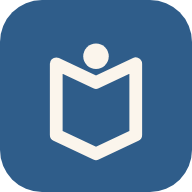
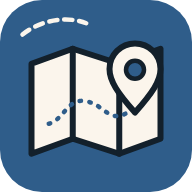
旅伴 v2: 統一飛省/飯省風格（header/導覽/按鈕/卡片/sheet/footer/深色）、新圖標、SW tripmate-v2

diff --git a/index.html b/index.html
@@ -1,31 +1,59 @@
 <!doctype html><html lang="zh-TW"><head><meta charset="utf-8"><meta name="viewport" content="width=device-width,initial-scale=1,viewport-fit=cover">
-<title>旅伴｜行程規劃</title><link rel="manifest" href="manifest.json"><link rel="icon" href="icons/icon.svg"><meta name="theme-color" content="#2F5D8A">
+<title>旅伴｜行程規劃</title><link rel="manifest" href="manifest.json"><link rel="icon" href="icons/icon.svg"><link rel="apple-touch-icon" href="icons/apple-touch-icon.png"><meta name="theme-color" content="#F4F8FC">
 <style>
-:root{--p:#2F5D8A;--pl:#5B8DBF;--pll:#A9C8E6;--bg:#FBF5EC;--card:#fff;--tx:#2B2A27;--mut:#7A746A;--bd:#E9E1D3;--fly:#388153;--fan:#C2410C}
-[data-theme=dark]{--bg:#10151C;--card:#1A2330;--tx:#F1EBDD;--mut:#A39D90;--bd:#2A3646;--p:#5B8DBF}
-*{box-sizing:border-box}body{margin:0;font-family:-apple-system,"PingFang TC","Noto Sans TC","Microsoft JhengHei",sans-serif;background:var(--bg);color:var(--tx);padding:64px 0 84px}
-header{position:fixed;top:0;left:0;right:0;height:56px;display:flex;align-items:center;gap:10px;padding:0 12px;background:var(--bg);border-bottom:1px solid var(--bd);z-index:5}
-header .t{flex:1;display:flex;align-items:center;gap:8px}header b{font-size:18px}#tag{font-size:12px;color:var(--mut);transition:opacity .4s}
-.ib{background:none;border:0;font-size:20px;cursor:pointer;position:relative;color:var(--tx)}.dot{position:absolute;top:2px;right:2px;width:8px;height:8px;background:#E0483E;border-radius:50%}
-nav{position:fixed;bottom:0;left:0;right:0;display:flex;background:var(--card);border-top:1px solid var(--bd);padding-bottom:env(safe-area-inset-bottom);z-index:5}
-nav button{flex:1;border:0;background:none;padding:8px 0;font-size:11px;color:var(--mut);display:flex;flex-direction:column;align-items:center;gap:3px;cursor:pointer}
-nav button.on{color:var(--p);font-weight:700}.ico{width:26px;height:26px;border-radius:8px;background:var(--mut);color:#FBF5EC;display:grid;place-items:center;font-size:14px}nav .on .ico{background:var(--p)}
-main{max-width:720px;margin:auto;padding:0 14px}.card{background:var(--card);border:1px solid var(--bd);border-radius:16px;padding:14px;margin:10px 0}
-h2{font-size:18px;margin:12px 4px}.mut{color:var(--mut);font-size:13px}label{display:block;font-size:13px;margin:10px 0 4px;color:var(--mut)}
-input,textarea,select{width:100%;padding:10px;border-radius:10px;border:1px solid var(--bd);background:var(--bg);color:var(--tx);font:inherit}
-.btn{white-space:nowrap;text-align:center;text-decoration:none;flex:0 0 auto;border:0;border-radius:12px;padding:10px 14px;font:inherit;font-weight:600;cursor:pointer;background:var(--p);color:#FBF5EC}.btn.s{background:none;color:var(--p);border:1px solid var(--p)}
-.btn.fly{background:var(--fly)}.btn.fan{background:var(--fan)}.row{display:flex;gap:8px;flex-wrap:wrap;align-items:center}.row>*{flex:1}.row>.btn{flex:1}
-.spot{display:flex;gap:8px;align-items:flex-start;border-top:1px dashed var(--bd);padding:8px 0}.spot .tm{font-weight:700;color:var(--p);min-width:48px}.spot .x{flex:1}
-.mini{border:0;background:none;cursor:pointer;color:var(--mut);font-size:16px;padding:2px}.deal{display:flex;justify-content:space-between;align-items:center}.price{color:var(--fly);font-weight:800;font-size:18px}
-footer{text-align:center;font-size:12px;color:var(--mut);margin:24px 0}footer a{color:var(--mut)}
-.sheet{position:fixed;inset:0;background:#0007;display:none;align-items:flex-end;z-index:9}.sheet.on{display:flex}.sheet>div{background:var(--card);width:100%;max-width:720px;margin:auto auto 0;border-radius:20px 20px 0 0;padding:18px}
-@media print{header,nav,footer,.noprint{display:none!important}body{padding:0;background:#fff;color:#000}.card{border:1px solid #ccc}}
+:root{--g:#2F5D8A;--lg:#DCE8F4;--acc:#2F5D8A;--hd:#F4F8FC;--hdtx:#16283A;--line:#D5E0EB;--tint:#DCE8F4;--tintfg:#1F4468;--bg:#FBF5EC;--card:#FFFDF9;--tx:#111;--mut:#7A6E62;--bd:#E7D8C6;--fly:#388153;--fan:#C2410C}
+html.dark{color-scheme:dark;--g:#3B6A99;--lg:#1E3247;--acc:#8DB6E0;--hd:#18212C;--hdtx:#EAF0F6;--line:#2A3846;--tint:#22344A;--tintfg:#8DB6E0;--bg:#11161D;--card:#1C2530;--tx:#EEF2F6;--mut:#A3AFBC;--bd:#334355;--fly:#2F6E47;--fan:#A93A0B}
+*{box-sizing:border-box;-webkit-tap-highlight-color:transparent}
+body{margin:0;font-family:-apple-system,"PingFang TC","Noto Sans TC","Microsoft JhengHei",sans-serif;background:var(--bg);color:var(--tx);padding-bottom:calc(70px + env(safe-area-inset-bottom))}
+header{background:var(--hd);color:var(--hdtx);border-bottom:1px solid var(--line);padding:calc(12px + env(safe-area-inset-top)) 12px 10px;display:flex;align-items:center;gap:6px;position:sticky;top:0;z-index:5}
+header img#logo{width:40px;height:40px;border-radius:11px;box-shadow:0 2px 6px rgba(20,45,75,.25)}
+header h1{flex:1 1 auto;min-width:0;font-size:19px;margin:0;font-weight:800;overflow:hidden}
+header small{display:block;font-size:11px;font-weight:400;color:#4E6A86;white-space:nowrap;overflow:hidden;text-overflow:ellipsis;transition:opacity .4s}
+html.dark header small{color:#9DB6CF}
+#annbell{position:relative;width:40px;height:40px;margin:-6px 0 -6px -4px;border:0;background:var(--tint);border-radius:12px;display:flex;align-items:center;justify-content:center;flex:none;cursor:pointer}
+#nfybell{position:relative;width:44px;height:44px;margin:-6px -4px -6px 0;border:0;background:var(--tint);border-radius:12px;display:flex;align-items:center;justify-content:center;flex:none;cursor:pointer}
+#thbtn{width:44px;height:44px;border:0;background:none;border-radius:12px;display:flex;align-items:center;justify-content:center;cursor:pointer}
+header button svg{width:22px;height:22px;fill:none;stroke:var(--tintfg);stroke-width:1.9;stroke-linecap:round;stroke-linejoin:round}
+header button b{position:absolute;top:4px;right:4px;background:#E53935;color:#fff;font-size:11px;border-radius:9px;padding:0 5px;line-height:16px}header button b:empty{display:none}
+nav{position:fixed;bottom:0;left:0;right:0;display:flex;background:#FFFDF9f2;-webkit-backdrop-filter:blur(10px);backdrop-filter:blur(10px);border-top:1px solid #e3e8ee;padding:4px env(safe-area-inset-right) calc(4px + env(safe-area-inset-bottom)) env(safe-area-inset-left);z-index:5}
+nav button{flex:1 1 0;min-width:0;min-height:52px;border:0;background:none;padding:4px 0 2px;font-size:10.5px;color:#8a949e;display:flex;flex-direction:column;align-items:center;justify-content:center;gap:2px;cursor:pointer;font-family:inherit}
+nav button svg{width:23px;height:23px;fill:none;stroke:currentColor;stroke-width:1.8;stroke-linecap:round;stroke-linejoin:round;transition:transform .25s cubic-bezier(.3,1.6,.5,1)}
+nav button.on{color:var(--g);font-weight:700}nav button.on svg{transform:translateY(-1px) scale(1.08)}
+html.dark nav{background:#161E27f2;border-top-color:#2A3846}html.dark nav button{color:#A3AFBC}html.dark nav button.on{color:#8DB6E0}
+main{padding:12px;max-width:520px;margin:0 auto}
+.card{background:var(--card);border-radius:16px;padding:14px;margin-bottom:12px;box-shadow:0 1px 3px rgba(0,0,0,.08)}
+html.dark .card{box-shadow:none;border:1px solid var(--line)}
+h2{font-size:18px;margin:4px 2px 10px}.mut{color:var(--mut);font-size:13px}
+.fld{display:block;font-size:13px;color:var(--mut);margin:0 0 10px}
+.fld input,.fld textarea,.fld select{display:block;width:100%;margin-top:4px;min-height:48px;padding:10px 12px;border:1.5px solid var(--bd);border-radius:12px;font-size:16px;font-family:inherit;background:#fff;color:#1A2430}
+html.dark .fld input,html.dark .fld textarea,html.dark .fld select{background:#151C24;color:var(--tx)}
+.btn{display:inline-flex;align-items:center;justify-content:center;gap:6px;min-height:48px;border:0;background:var(--g);color:#fff;font-size:16px;font-weight:800;border-radius:24px;padding:12px 18px;font-family:inherit;text-decoration:none;cursor:pointer;white-space:nowrap;transition:filter .15s}
+.btn:active{filter:brightness(.92)}.btn:disabled{background:#B9CBDD;cursor:default}html.dark .btn:disabled{background:#2C3B4B;color:#7D8C9B}
+.btn.ghost{background:transparent;color:var(--acc);border:2px solid var(--g)}html.dark .btn.ghost{border-color:var(--acc)}
+.btn.fly{background:var(--fly)}.btn.fan{background:var(--fan)}.btn.sm{min-height:36px;padding:6px 12px;font-size:14px}.btn.blk{display:flex;width:100%}
+.btn.press{animation:bounce .35s cubic-bezier(.3,1.6,.5,1)}@keyframes bounce{0%{transform:scale(1)}40%{transform:scale(.94)}100%{transform:scale(1)}}
+.chip{border:1.5px solid var(--g);color:var(--acc);background:var(--card);border-radius:20px;padding:5px 11px;font-size:13px;font-weight:700;font-family:inherit;cursor:pointer}
+.dd{border:1.5px solid #B9CBDD;background:var(--card);color:#1F4468;border-radius:999px;padding:7px 14px;font-size:14px;font-weight:700;cursor:pointer;font-family:inherit}.dd span{font-size:11px;opacity:.7}
+html.dark .dd{border-color:#334355;color:#B7CEE6}
+.ib{width:36px;height:36px;border:0;border-radius:10px;background:var(--tint);display:inline-flex;align-items:center;justify-content:center;cursor:pointer}.ib svg{width:18px;height:18px;fill:none;stroke:var(--tintfg);stroke-width:1.9;stroke-linecap:round;stroke-linejoin:round}
+.row{display:flex;gap:8px;flex-wrap:wrap;align-items:center}.row>*{flex:1}.row>.btn{flex:1}
+.spot{display:flex;gap:10px;align-items:center;border-top:1px dashed var(--bd);padding:10px 0}.spot img{width:32px;height:32px}.spot .tm{font-weight:800;color:var(--acc);min-width:46px}.spot .x{flex:1;min-width:0}.spot .ops{display:flex;gap:4px}
+.dh{display:flex;align-items:center;justify-content:space-between;gap:8px}
+.deal{display:flex;justify-content:space-between;align-items:center;gap:8px}.price{color:var(--fly);font-weight:800;font-size:20px;text-decoration:none}html.dark .price{color:#8FD3A8}
+.ui{width:28px;height:28px;vertical-align:middle;margin-right:6px}
+footer{text-align:center;font-size:12px;color:#777;line-height:1.9;padding:10px 0 4px}footer a{color:var(--acc);text-decoration:none;font-weight:700;cursor:pointer}footer .copy{color:#aaa;font-size:11px}
+html.dark footer{color:#A3AFBC}
+.shbg{position:fixed;inset:0;background:rgba(10,20,30,.45);z-index:20;opacity:0;pointer-events:none;transition:opacity .25s}.shbg.on{opacity:1;pointer-events:auto}
+.sheet{position:fixed;left:0;right:0;bottom:0;max-height:88vh;overflow:auto;background:#FFFDF9;border-radius:20px 20px 0 0;z-index:21;padding:8px 16px calc(18px + env(safe-area-inset-bottom));transform:translateY(100%);transition:transform .3s cubic-bezier(.2,.9,.3,1);max-width:560px;margin:0 auto}
+.sheet.on{transform:none}.sheet .grab{width:40px;height:5px;border-radius:3px;background:#D3DEE9;margin:4px auto 12px}.sheet h2{margin:0 0 8px}
+html.dark .sheet{background:#18212C;color:var(--tx)}html.dark .sheet .grab{background:#334355}
+.toast{position:fixed;bottom:96px;left:50%;transform:translateX(-50%);background:#333;color:#fff;padding:8px 14px;border-radius:20px;z-index:30;font-size:13px}
+@media print{header,nav,footer,.noprint{display:none!important}body{padding:0;background:#fff;color:#000}.card{box-shadow:none;border:1px solid #ccc}}
 </style></head><body>
-<header><button class="ib" id="ann" title="公告">📢<span class="dot" id="annDot"></span></button><div class="t"><img src="icons/icon.svg" width="28"><div><b>旅伴</b><div id="tag">排好行程，機票飯店一起省</div></div></div>
-<button class="ib" id="theme" title="深色模式">🌙</button><button class="ib" id="bell" title="通知">🔔</button></header>
+<header><button id="annbell" aria-label="公告"><svg viewBox="0 0 24 24"><path d="M3 10v4h3l7 4V6L6 10z"/><path d="M16 9a4 4 0 0 1 0 6M18.5 6.5a8 8 0 0 1 0 11"/></svg><b id="annn">1</b></button><img id="logo" src="icons/icon-192.png" alt="旅伴"><h1>旅伴 TripMate<small id="tag">排好行程，機票飯店一起省</small></h1><button id="thbtn" aria-label="切換深色模式"></button><button id="nfybell" aria-label="通知"><svg viewBox="0 0 24 24"><path d="M6 16V11a6 6 0 0 1 12 0v5l2 2H4z"/><path d="M10 20a2 2 0 0 0 4 0"/></svg><b></b></button></header>
 <main id="app"></main>
 <nav id="nav"></nav>
-<div class="sheet" id="sheet"><div id="sheetBody"></div></div>
+<div class="shbg" id="shbg"></div><div class="sheet" id="sheet"><div class="grab"></div><div id="sheetBody"></div></div>
 <script>
 const P='trip_',$=s=>document.querySelector(s),esc=s=>String(s??'').replace(/[&<>"]/g,c=>({'&':'&amp;','<':'&lt;','>':'&gt;','"':'&quot;'}[c]));
 const ls={get:(k,d)=>{try{return JSON.parse(localStorage.getItem(P+k))??d}catch{return d}},set:(k,v)=>localStorage.setItem(P+k,JSON.stringify(v))};
@@ -37,42 +65,47 @@ const days=t=>{const n=Math.max(1,Math.round((new Date(t.ret)-new Date(t.dep))/8
 const dayDate=(t,i)=>{const d=new Date(t.dep);d.setDate(d.getDate()+i);return `${d.getMonth()+1}/${d.getDate()}（${'日一二三四五六'[d.getDay()]}）`};
 const flyUrl=t=>`${BASE}flysave/?to=${encodeURIComponent(code(t.dest))}&dep=${t.dep}&ret=${t.ret}&pax=${t.pax}&orig=${t.orig||'TPE'}&from=trip`;
 const fanUrl=t=>`${BASE}fansave/?city=${encodeURIComponent(code(t.dest))}&in=${t.dep}&out=${t.ret}&guests=${Math.min(8,t.pax)}&from=trip`;
-const TABS=[['list','我的行程','🧳'],['new','新增行程','＋'],['edit','行程編輯','✎'],['deals','優惠','％'],['more','其他','⋯']];
+const TI={list:'<rect x="4" y="7" width="16" height="13" rx="2.5"/><path d="M9 7V5a1 1 0 0 1 1-1h4a1 1 0 0 1 1 1v2M4 12h16M10 12v2h4v-2"/>',new:'<rect x="4" y="4" width="16" height="16" rx="4"/><path d="M12 8.5v7M8.5 12h7"/>',edit:'<path d="M4 6l5-2 6 2 5-2v14l-5 2-6-2-5 2z"/><path d="M9 4v14M15 6v14"/>',deals:'<path d="M3 12V5a2 2 0 0 1 2-2h7l9 9-9 9z"/><circle cx="8" cy="8" r="1.5"/><path d="M10.5 16.5l5-5"/>',more:'<circle cx="5" cy="12" r="1.5"/><circle cx="12" cy="12" r="1.5"/><circle cx="19" cy="12" r="1.5"/>'};
+const IB={up:'<path d="M6 15l6-6 6 6"/>',dn:'<path d="M6 9l6 6 6-6"/>',ed:'<path d="M4 20h4L19 9l-4-4L4 16z"/>',x:'<path d="M6 6l12 12M18 6L6 18"/>',del:'<path d="M5 7h14M10 7V4h4v3M7 7l1 13h8l1-13"/>'};
+const ib=(k,on,t)=>`<button class="ib" aria-label="${t}" onclick="${on}"><svg viewBox="0 0 24 24">${IB[k]}</svg></button>`,ui=(n)=>`<img class="ui" src="icons/ui-${n}.svg" alt="">`;
+const TABS=[['list','我的行程'],['new','新增行程'],['edit','行程編輯'],['deals','優惠'],['more','其他']];
 function go(t){tab=t;history.pushState({tab:t},'');render()}
-function render(){$('#nav').innerHTML=TABS.map(([k,n,i])=>`<button class="${k===tab?'on':''}" onclick="go('${k}')"><span class="ico">${i}</span>${n}</button>`).join('');$('#app').innerHTML=V[tab]()+foot();if(tab==='deals'||tab==='edit')loadDeals()}
-const foot=()=>`<footer>贊助 · <a href="#" onclick="share();return false">分享</a> · 關於 | 隱私 | 條款<br><a href="${BASE}flysave/?from=trip">✈ 飛省</a> · <a href="${BASE}fansave/?from=trip">🏨 飯省</a></footer>`;
+function render(){$('#nav').innerHTML=TABS.map(([k,n])=>`<button class="${k===tab?'on':''}" onclick="go('${k}')"><svg viewBox="0 0 24 24">${TI[k]}</svg>${n}</button>`).join('');$('#app').innerHTML=V[tab]()+foot();if(tab==='deals'||tab==='edit')loadDeals()}
+const foot=()=>`<footer><a onclick="toast('感謝支持 ☕')">☕ 贊助旅伴</a> · <a onclick="share()">🔗 分享網頁</a><br><a onclick="go('more')">關於我們</a> | <a onclick="go('more')">隱私權政策</a> | <a onclick="go('more')">服務條款</a><br><a href="${BASE}flysave/?from=trip">✈ 飛省 查機票</a> | <a href="${BASE}fansave/?from=trip">🏨 飯省 找飯店</a><div class="copy">© 2026 旅伴 TripMate · v2.0</div></footer>`;
 const V={
-list:()=>`<h2>我的行程</h2>`+(trips.length?trips.map(t=>`<div class="card" onclick="cur='${t.id}';save();go('edit')" style="cursor:pointer"><div class="row"><div><b>${esc(t.dest)}</b> <span class="mut">${t.dep} → ${t.ret} · ${t.pax} 人</span></div><button class="mini" style="flex:0" onclick="event.stopPropagation();delTrip('${t.id}')">🗑</button></div><div class="mut">${t.days.flat().length} 個景點</div></div>`).join(''):`<div class="card mut">還沒有行程，點「新增行程」開始吧！</div>`),
-new:()=>{const d=new Date(Date.now()+14*864e5).toISOString().slice(0,10),r=new Date(Date.now()+18*864e5).toISOString().slice(0,10);return `<h2>新增行程</h2><div class="card"><label>目的地（城市或機場代碼）</label><input id="nd" list="cities" placeholder="例：東京"><datalist id="cities">${Object.keys(CITY).map(c=>`<option>${c}`).join('')}</datalist>
-<div class="row"><div><label>出發</label><input type="date" id="ndep" value="${d}"></div><div><label>回程</label><input type="date" id="nret" value="${r}"></div></div>
-<div class="row"><div><label>人數</label><input type="number" id="npax" min="1" max="9" value="2"></div><div><label>出發機場</label><select id="norig"><option>TPE</option><option>KHH</option></select></div></div><br><button class="btn" style="width:100%" onclick="addTrip()">建立行程</button></div>`},
+list:()=>`<h2>我的行程</h2>`+(trips.length?trips.map(t=>`<div class="card" onclick="cur='${t.id}';save();go('edit')" style="cursor:pointer"><div class="row"><div>${ui('spot')}<b>${esc(t.dest)}</b> <span class="mut">${t.dep} → ${t.ret} · ${t.pax} 人</span></div><span style="flex:0" onclick="event.stopPropagation()">${ib('del',`delTrip('${t.id}')`,'刪除')}</span></div><div class="mut">${t.days.flat().length} 個景點</div></div>`).join(''):`<div class="card mut">還沒有行程，點「新增行程」開始吧！</div>`),
+new:()=>{const d=new Date(Date.now()+14*864e5).toISOString().slice(0,10),r=new Date(Date.now()+18*864e5).toISOString().slice(0,10);return `<h2>新增行程</h2><div class="card"><label class="fld">目的地（城市或機場代碼）<input id="nd" list="cities" placeholder="例：東京"></label><datalist id="cities">${Object.keys(CITY).map(c=>`<option>${c}`).join('')}</datalist>
+<div class="row"><div><label class="fld">出發<input type="date" id="ndep" value="${d}"></label></div><div><label class="fld">回程<input type="date" id="nret" value="${r}"></label></div></div>
+<div class="row"><div><label class="fld">人數<input type="number" id="npax" min="1" max="9" value="2"></div><div><label class="fld">出發機場<select id="norig"><option>TPE</option><option>KHH</option></select></label></div></div><br><button class="btn blk" onclick="addTrip()">建立行程</button></div>`},
 edit:()=>{const t=T();if(!t)return `<h2>行程編輯</h2><div class="card mut">請先建立或選擇一個行程。</div>`;const n=days(t);return `<h2>${esc(t.dest)} ${n} 天 <span class="mut">${t.dep} → ${t.ret} · ${t.pax} 人</span></h2>
 <div class="row noprint"><a class="btn fly" href="${flyUrl(t)}" target="_blank">✈ 飛省查機票</a><a class="btn fan" href="${fanUrl(t)}" target="_blank">🏨 飯省找飯店</a></div>
-<div class="row noprint" style="margin-top:8px"><button class="btn s" onclick="print()">🖨 列印</button><button class="btn s" onclick="share()">🔗 分享</button></div>
-<div id="tdeals"></div>`+t.days.map((d,i)=>`<div class="card"><div class="row"><b>Day ${i+1} · ${dayDate(t,i)}</b><button class="btn s noprint" style="flex:0;padding:4px 10px" onclick="spot(${i})">＋景點</button></div>`+(d.length?d.map((s,j)=>`<div class="spot"><span class="tm">${esc(s.time)||'—'}</span><div class="x"><b>${esc(s.name)}</b>${s.note?`<div class="mut">${esc(s.note)}</div>`:''}</div><span class="noprint"><button class="mini" onclick="mv(${i},${j},-1)">▲</button><button class="mini" onclick="mv(${i},${j},1)">▼</button><button class="mini" onclick="spot(${i},${j})">✎</button><button class="mini" onclick="rm(${i},${j})">✕</button></span></div>`).join(''):`<div class="mut">尚未安排</div>`)+`</div>`).join('')},
+<div class="row noprint" style="margin-top:8px"><button class="btn ghost" onclick="print()">列印行程</button><button class="btn ghost" onclick="share()">分享行程</button></div>
+<div id="tdeals"></div>`+t.days.map((d,i)=>`<div class="card"><div class="dh"><b>Day ${i+1} · ${dayDate(t,i)}</b><button class="btn s noprint" style="flex:0;padding:4px 10px" onclick="spot(${i})">＋景點</button></div>`+(d.length?d.map((s,j)=>`<div class="spot"><img src="icons/ui-spot.svg" alt=""><span class="tm">${esc(s.time)||'—'}</span><div class="x"><b>${esc(s.name)}</b>${s.note?`<div class="mut">${esc(s.note)}</div>`:''}</div><span class="ops noprint">${ib('up',`mv(${i},${j},-1)`,'上移')}${ib('dn',`mv(${i},${j},1)`,'下移')}${ib('ed',`spot(${i},${j})`,'編輯')}${ib('x',`rm(${i},${j})`,'刪除')}</span></div>`).join(''):`<div class="mut">尚未安排</div>`)+`</div>`).join('')},
 deals:()=>`<h2>最新機票優惠 <span class="mut">來自飛省</span></h2><div id="dl" class="mut">載入中…</div>`,
-more:()=>`<h2>其他</h2><div class="card"><b>關於旅伴</b><p class="mut">旅伴幫你排每日行程，並一鍵帶參數到飛省查機票、飯省找住宿。資料只存在你的裝置。</p></div><div class="card"><button class="btn s" onclick="exp()">匯出行程 JSON</button></div>`};
+more:()=>`<h2>其他</h2><div class="card"><b>關於旅伴</b><p class="mut">旅伴幫你排每日行程，並一鍵帶參數到飛省查機票、飯省找住宿。資料只存在你的裝置。</p></div><div class="card"><button class="btn ghost" onclick="exp()">匯出行程 JSON</button></div>`};
 function addTrip(){const dest=$('#nd').value.trim(),dep=$('#ndep').value,ret=$('#nret').value;if(!dest||!dep||!ret||ret<dep)return alert('請填寫目的地與正確日期');const t={id:Date.now().toString(36),dest,dep,ret,pax:+$('#npax').value||2,orig:$('#norig').value,days:[]};days(t);trips.unshift(t);cur=t.id;save();go('edit')}
 function delTrip(id){if(!confirm('刪除這個行程？'))return;trips=trips.filter(t=>t.id!==id);if(cur===id)cur=null;save();render()}
-function spot(i,j){const s=j!=null?T().days[i][j]:{};$('#sheetBody').innerHTML=`<b>${j!=null?'編輯':'新增'}景點 · Day ${i+1}</b><label>時間</label><input type="time" id="st" value="${esc(s.time)}"><label>景點</label><input id="sn" value="${esc(s.name)}"><label>備註</label><textarea id="so" rows="2">${esc(s.note)}</textarea><br><br><div class="row"><button class="btn s" onclick="closeSheet()">取消</button><button class="btn" onclick="saveSpot(${i},${j??-1})">儲存</button></div>`;openSheet()}
+function spot(i,j){const s=j!=null?T().days[i][j]:{};$('#sheetBody').innerHTML=`<h2>${j!=null?'編輯':'新增'}景點 · Day ${i+1}</h2><label class="fld">時間<input type="time" id="st" value="${esc(s.time)}"><label class="fld">景點<input id="sn" value="${esc(s.name)}"><label class="fld">備註<textarea id="so" rows="2">${esc(s.note)}</textarea></label><div class="row"><button class="btn ghost" onclick="closeSheet()">取消</button><button class="btn" onclick="saveSpot(${i},${j??-1})">儲存</button></div>`;openSheet()}
 function saveSpot(i,j){const s={time:$('#st').value,name:$('#sn').value.trim(),note:$('#so').value.trim()};if(!s.name)return;const d=T().days[i];j<0?d.push(s):d[j]=s;save();closeSheet();render()}
 function mv(i,j,k){const d=T().days[i],n=j+k;if(n<0||n>=d.length)return;[d[j],d[n]]=[d[n],d[j]];save();render()}
 function rm(i,j){T().days[i].splice(j,1);save();render()}
-function openSheet(){$('#sheet').classList.add('on');history.pushState({sheet:1},'')}function closeSheet(){if($('#sheet').classList.contains('on')){$('#sheet').classList.remove('on');history.back()}}
-$('#sheet').onclick=e=>{if(e.target.id==='sheet')closeSheet()};
-let lastBack=0;addEventListener('popstate',e=>{if($('#sheet').classList.contains('on')){$('#sheet').classList.remove('on');return}if(e.state?.tab){tab=e.state.tab;render();return}if(tab!=='list'){tab='list';render();history.pushState({tab:'list'},'');return}if(Date.now()-lastBack>2000){lastBack=Date.now();history.pushState({tab:'list'},'');toast('再按一次返回離開')}});
-function toast(m){const d=document.createElement('div');d.textContent=m;d.style.cssText='position:fixed;bottom:96px;left:50%;transform:translateX(-50%);background:#333;color:#fff;padding:8px 14px;border-radius:20px;z-index:20;font-size:13px';document.body.append(d);setTimeout(()=>d.remove(),1800)}
+function openSheet(){$('#sheet').classList.add('on');$('#shbg').classList.add('on');history.pushState({sheet:1},'')}function hideSheet(){$('#sheet').classList.remove('on');$('#shbg').classList.remove('on')}function closeSheet(){if($('#sheet').classList.contains('on')){hideSheet();history.back()}}
+$('#shbg').onclick=closeSheet;
+let lastBack=0;addEventListener('popstate',e=>{if($('#sheet').classList.contains('on')){hideSheet();return}if(e.state?.tab){tab=e.state.tab;render();return}if(tab!=='list'){tab='list';render();history.pushState({tab:'list'},'');return}if(Date.now()-lastBack>2000){lastBack=Date.now();history.pushState({tab:'list'},'');toast('再按一次返回離開')}});
+function toast(m){const d=document.createElement('div');d.className='toast';d.textContent=m;document.body.append(d);setTimeout(()=>d.remove(),1800)}
 async function loadDeals(){if(!deals){const c=ls.get('deals',null);if(c&&Date.now()-c.at<3*36e5)deals=c.d;else try{deals=await (await fetch('https://luke120513-sys.github.io/flysave/deals.json')).json();ls.set('deals',{at:Date.now(),d:deals})}catch{deals=c?.d||{short:[],long:[]}}}
-const all=[...(deals.short||[]),...(deals.long||[])].sort((a,b)=>a.price-b.price),card=x=>`<div class="card deal"><div><b>${esc(x.dest)}</b> <span class="mut">${esc(x.origin)}→${esc(x.code)} · ${esc(x.dates)} · ${esc(x.airline)}</span></div><a class="price" href="${BASE}flysave/?to=${x.code}&dep=${x.depart}&ret=${x.return}&orig=${x.origin}&from=trip" target="_blank">$${x.price.toLocaleString()}</a></div>`;
+const all=[...(deals.short||[]),...(deals.long||[])].sort((a,b)=>a.price-b.price),card=x=>`<div class="card deal"><div>${ui('fly')}<b>${esc(x.dest)}</b> <span class="mut">${esc(x.origin)}→${esc(x.code)} · ${esc(x.dates)} · ${esc(x.airline)}</span></div><a class="price" href="${BASE}flysave/?to=${x.code}&dep=${x.depart}&ret=${x.return}&orig=${x.origin}&from=trip" target="_blank">$${x.price.toLocaleString()}</a></div>`;
 if($('#dl'))$('#dl').innerHTML=(all.length?all.map(card).join(''):'目前沒有優惠')+`<p class="mut">更新：${esc(deals.updatedAt||'')}</p>`;
 const t=T();if($('#tdeals')&&t){const c=code(t.dest),m=all.filter(x=>x.code===c||x.dest===t.dest).slice(0,3);$('#tdeals').innerHTML=m.length?`<h2 class="noprint">🔥 ${esc(t.dest)} 機票優惠</h2><div class="noprint">${m.map(card).join('')}</div>`:''}}
 function share(){const t=T(),txt=t?`${t.dest} ${t.dep}~${t.ret}\n`+t.days.map((d,i)=>`Day${i+1} `+d.map(s=>`${s.time} ${s.name}`).join('、')).join('\n'):'旅伴 行程規劃';navigator.share?navigator.share({title:'旅伴',text:txt,url:location.href}).catch(()=>{}):navigator.clipboard?.writeText(txt+'\n'+location.href).then(()=>toast('已複製行程'))}
 function exp(){const a=document.createElement('a');a.href=URL.createObjectURL(new Blob([JSON.stringify(trips,null,2)],{type:'application/json'}));a.download='tripmate.json';a.click()}
 const TAGS=['排好行程，機票飯店一起省','✈ 機票找飛省','🏨 住宿找飯省','每日行程，一頁搞定'];let ti=0;setInterval(()=>{const e=$('#tag');e.style.opacity=0;setTimeout(()=>{e.textContent=TAGS[++ti%TAGS.length];e.style.opacity=1},400)},4000);
-function applyTheme(){const m=ls.get('theme','auto'),d=m==='dark'||(m==='auto'&&matchMedia('(prefers-color-scheme:dark)').matches);document.documentElement.dataset.theme=d?'dark':'light';$('#theme').textContent=d?'☀':'🌙';document.querySelector('meta[name=theme-color]').content=d?'#10151C':'#2F5D8A'}
-$('#theme').onclick=()=>{ls.set('theme',document.documentElement.dataset.theme==='dark'?'light':'dark');applyTheme()};matchMedia('(prefers-color-scheme:dark)').onchange=applyTheme;applyTheme();
-if(ls.get('annRead',0))$('#annDot').remove();$('#ann').onclick=()=>{ls.set('annRead',1);$('#annDot')?.remove();$('#sheetBody').innerHTML=`<b>📢 公告</b><p>旅伴上線！可一鍵串連飛省與飯省。</p><button class="btn" onclick="closeSheet()">知道了</button>`;openSheet()};
-$('#bell').onclick=()=>{$('#sheetBody').innerHTML=`<b>🔔 通知</b><p class="mut">目前沒有通知</p><button class="btn" onclick="closeSheet()">關閉</button>`;openSheet()};
+const MOON='<svg viewBox="0 0 24 24"><path d="M20 14.5A8 8 0 0 1 9.5 4a8 8 0 1 0 10.5 10.5z"/></svg>',SUN='<svg viewBox="0 0 24 24"><circle cx="12" cy="12" r="4"/><path d="M12 2v2M12 20v2M2 12h2M20 12h2M4.9 4.9l1.4 1.4M17.7 17.7l1.4 1.4M4.9 19.1l1.4-1.4M17.7 6.3l1.4-1.4"/></svg>';
+function applyTheme(){const m=ls.get('theme','auto'),d=m==='dark'||(m==='auto'&&matchMedia('(prefers-color-scheme:dark)').matches);document.documentElement.classList.toggle('dark',d);$('#thbtn').innerHTML=d?SUN:MOON;document.querySelector('meta[name=theme-color]').content=d?'#18212C':'#F4F8FC'}
+$('#thbtn').onclick=()=>{ls.set('theme',document.documentElement.classList.contains('dark')?'light':'dark');applyTheme()};matchMedia('(prefers-color-scheme:dark)').onchange=applyTheme;applyTheme();
+if(ls.get('annRead',0))$('#annn').textContent='';$('#annbell').onclick=()=>{ls.set('annRead',1);$('#annn').textContent='';$('#sheetBody').innerHTML=`<h2>📢 公告</h2><p>旅伴上線！可一鍵串連飛省與飯省。</p><button class="btn blk" onclick="closeSheet()">知道了</button>`;openSheet()};
+$('#nfybell').onclick=()=>{$('#sheetBody').innerHTML=`<h2>🔔 通知</h2><p class="mut">目前沒有通知</p><button class="btn blk" onclick="closeSheet()">關閉</button>`;openSheet()};
 history.replaceState({tab:trips.length?'list':'new'},'');tab=trips.length?'list':'new';render();
+document.addEventListener('pointerdown',e=>{const b=e.target.closest('.btn');if(!b||b.disabled)return;b.classList.remove('press');void b.offsetWidth;b.classList.add('press')});
 if('serviceWorker' in navigator)navigator.serviceWorker.register('sw.js',{scope:'./'});
 </script></body></html>

diff --git a/sw.js b/sw.js
@@ -1,4 +1,4 @@
-const C='tripmate-v1',A=['./','index.html','manifest.json','icons/icon.svg','icons/icon-192.png'];
+const C='tripmate-v2',A=['./','index.html','manifest.json','icons/icon.svg','icons/icon-192.png','icons/ui-spot.svg','icons/ui-fly.svg'];
 self.addEventListener('install',e=>{e.waitUntil(caches.open(C).then(c=>c.addAll(A)));self.skipWaiting()});
 self.addEventListener('activate',e=>{e.waitUntil(caches.keys().then(k=>Promise.all(k.filter(n=>n.startsWith('tripmate-')&&n!==C).map(n=>caches.delete(n)))));self.clients.claim()});
 self.addEventListener('fetch',e=>{const u=new URL(e.request.url);if(e.request.method!=='GET'||u.origin!==location.origin||!u.pathname.startsWith('/trip/'))return;
